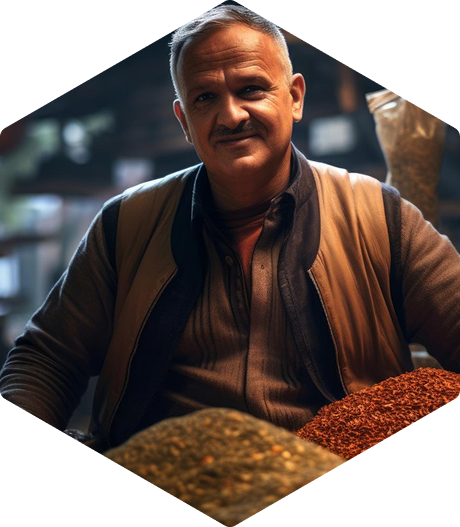
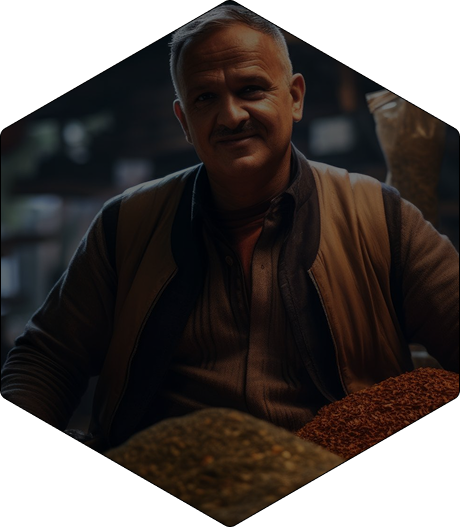
Update styles and add play button functionality in About section

diff --git a/index.html b/index.html
@@ -55,8 +55,11 @@
             <div class="row align-items-center about-row gy-5">
                 <div class="col-lg-6">
                     <div class="ab-imgs-wrap position-relative">
-                        <div class="ab-img">
+                        <div class="ab-img position-relative">
                             <img src="images/about.png" alt="About Us">
+                            <div class="ab-play">
+                                <img src="images/play.png" alt="play button" class="play">
+                            </div>
                         </div>
                         <div class="ab-img1">
                             <img src="images/seed.png" alt="seed image">
@@ -97,9 +100,10 @@
     </section>
     <!-- Products -->
     <section class="products-section" id="products">
+        <img src="images/masala.png" alt="masala" class="products-masala-art">
+        <img src="images/flower.png" alt="flower" class="products-flower-art">
         <div class="container products-shell">
-            <img src="images/masala.png" alt="masala" class="products-masala-art">
-            <img src="images/flower.png" alt="flower" class="products-flower-art">
+
             <div class="row">
                 <div class="col-12">
                     <div class="products-heading">

diff --git a/css/index.css b/css/index.css
@@ -179,10 +179,9 @@ h6 {
     min-height: 810px;
 
     .hero {
-        height: 810px;
-        /* background-image: url('../images/hero-bg.png'); */
+        min-height: 810px;
         background-repeat: no-repeat;
-        background-position: center top;
+        background-position: center bottom;
         background-size: cover;
     }
 
@@ -255,6 +254,24 @@ h6 {
     bottom: 0;
     left: 60px;
     z-index: 1;
+}
+
+.ab-play {
+    position: absolute;
+    width: 90px;
+    height: 91px;
+    left: 190px;
+    top: 206px;
+    background: #F26727;
+    border-radius: 100%;
+}
+
+.play {
+    position: absolute;
+    top: 30px;
+    left: 36px;
+    cursor: pointer;
+
 }
 
 .about-badge-wrap {
@@ -355,7 +372,8 @@ h6 {
 
 .products-masala-art {
     position: absolute;
-    right: -100px;
+    right: 0;
+    top: 0;
     width: 305px;
     height: 236px;
     mix-blend-mode: multiply;
@@ -363,8 +381,8 @@ h6 {
 
 .products-flower-art {
     position: absolute;
-    left: -70px;
-    bottom: -157px;
+    left: 0;
+    bottom: 0;
     width: 122px;
     height: 387px;
     mix-blend-mode: multiply;
